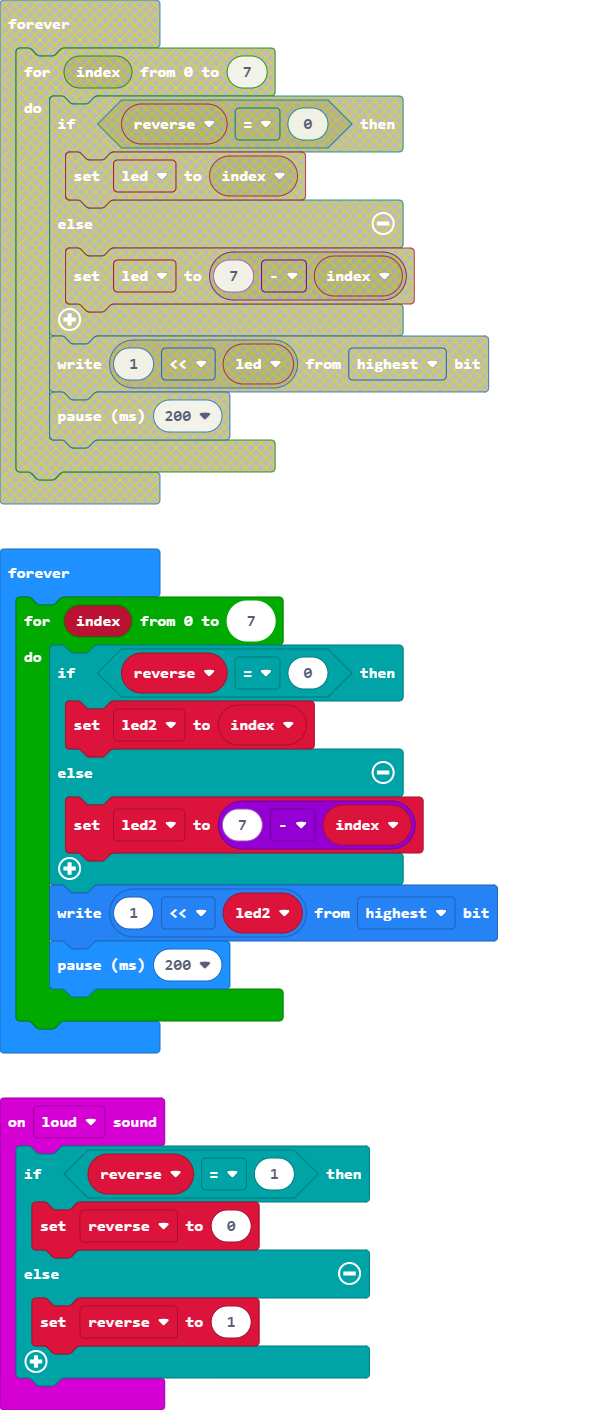
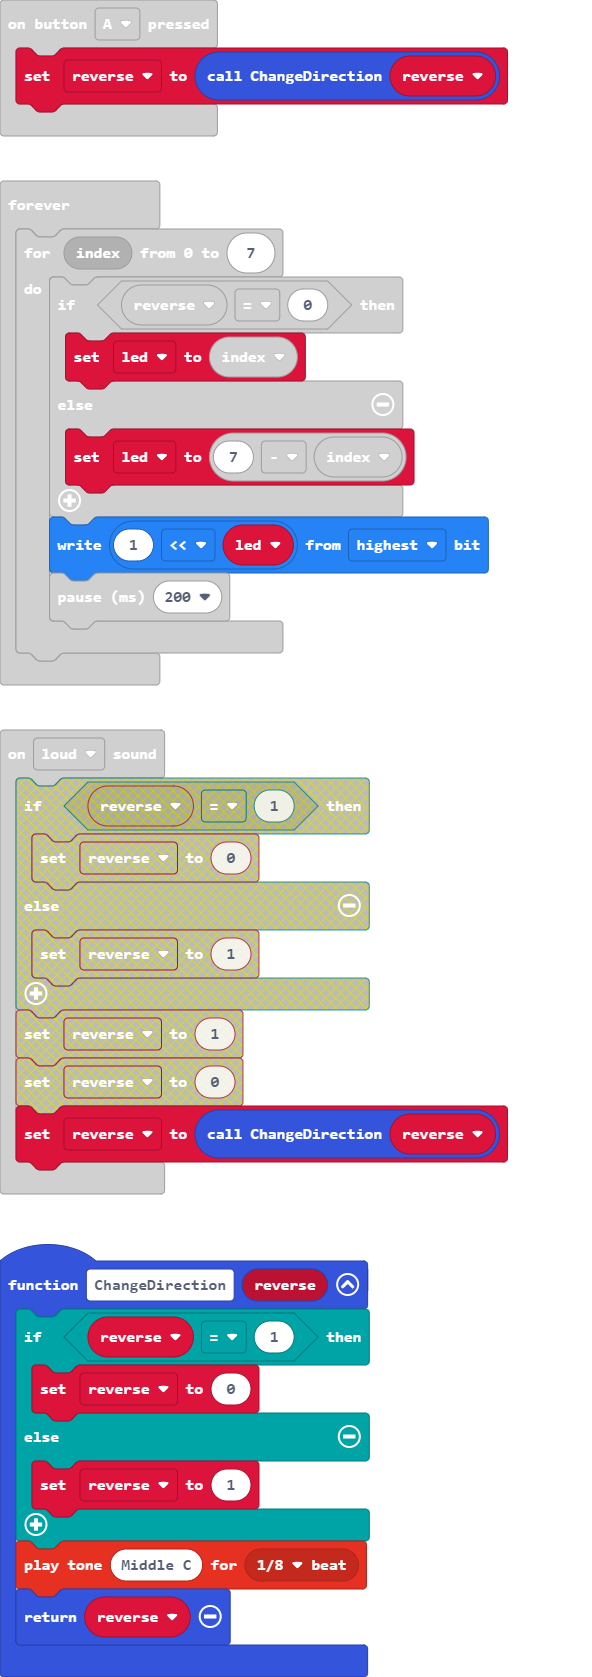
Update main.blocks, main.ts

diff --git a/main.ts b/main.ts
@@ -1,17 +1,18 @@
 input.onButtonPressed(Button.A, function () {
-    if (reverse == 1) {
-        reverse = 0
-    } else {
-        reverse = 1
-    }
+    reverse = ChangeDirection(reverse)
 })
 input.onSound(DetectedSound.Loud, function () {
+    reverse = ChangeDirection(reverse)
+})
+function ChangeDirection (reverse: number) {
     if (reverse == 1) {
         reverse = 0
     } else {
         reverse = 1
     }
-})
+    music.playTone(262, music.beat(BeatFraction.Eighth))
+    return reverse
+}
 let led2 = 0
 let reverse = 0
 Freenove.Initialization(DigitalPin.P0, DigitalPin.P1, DigitalPin.P2)
